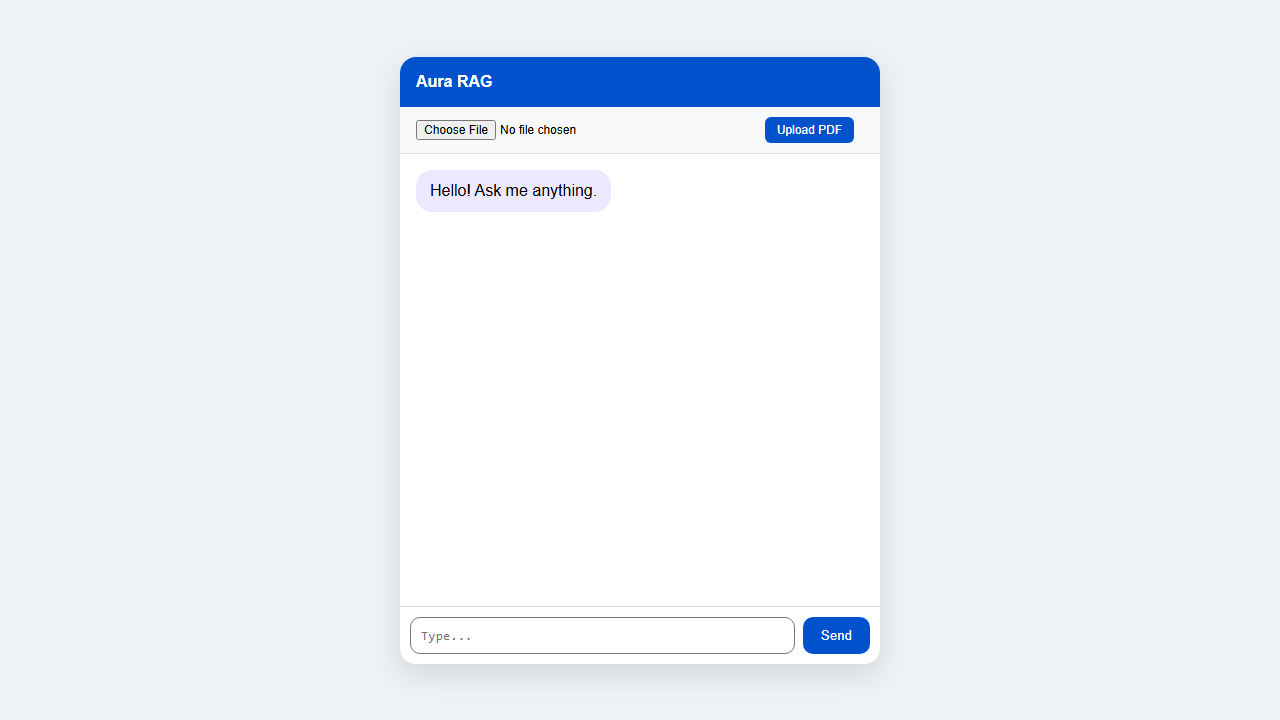
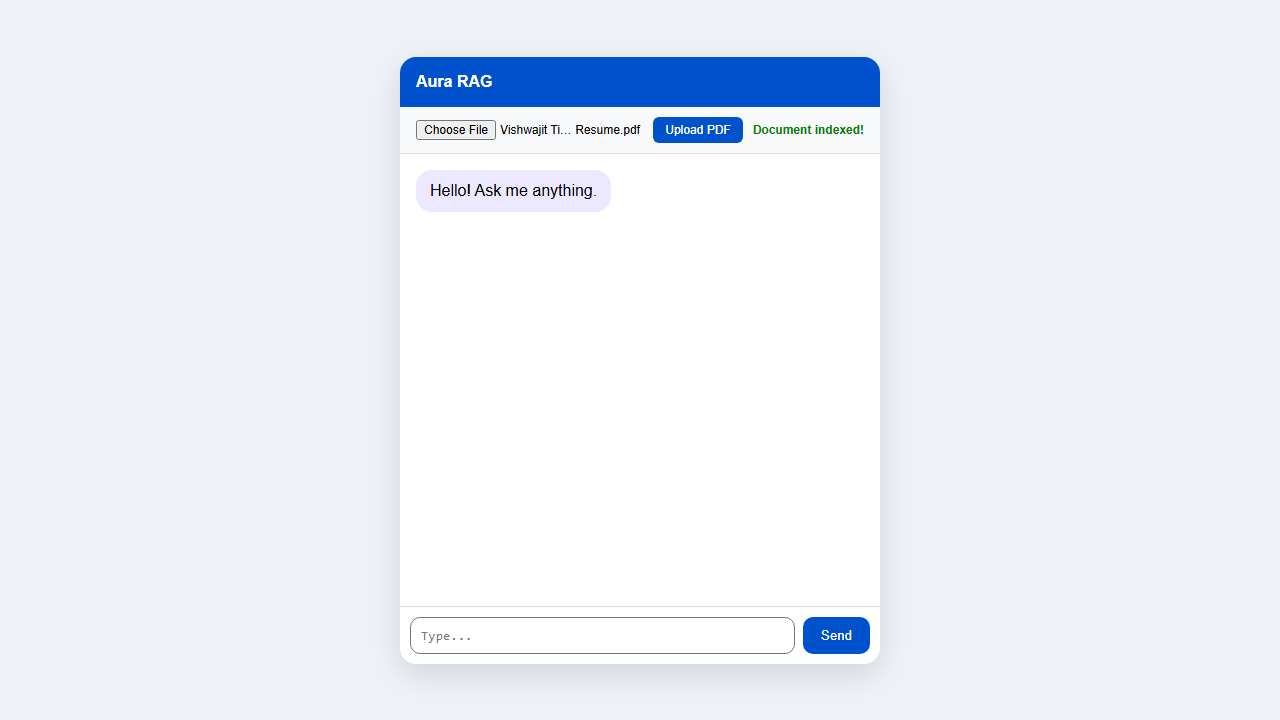
Update screenshots with actual resume context

Changed region(s): [[0.375, 0.1528, 0.6875, 0.2139]]

diff --git a/take_screenshot.py b/take_screenshot.py
@@ -8,9 +8,6 @@ async def main():
         await page.goto("http://127.0.0.1:8000")
         await page.wait_for_timeout(2000)
         
-        # Take initial UI screenshot
-        await page.screenshot(path="screenshot_ui.png")
-        
         # Upload the PDF
         pdf_path = r"C:\Users\Vishwajit\OneDrive\Documents\Vishwajit Tidke Resume.pdf"
         await page.set_input_files("#fileInput", pdf_path)
@@ -18,6 +15,9 @@ async def main():
         
         # Wait for upload success
         await page.wait_for_selector("text=Document indexed!", timeout=30000)
+        
+        # Take UI screenshot after upload so it shows the file attached
+        await page.screenshot(path="screenshot_ui.png")
         
         # Ask questions
         questions = [
